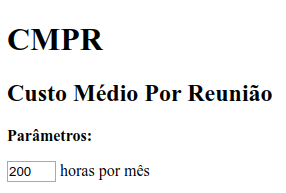
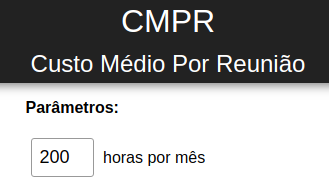
docs: ✏ Fix issue #7 make prints with new CSS
Make prints to README with new Styles

diff --git a/README.md b/README.md
@@ -6,23 +6,23 @@ Custo Médio Por Reunião
 
 ### Parâmetros
 
-> ![Screenshot: Parameters](https://github.com/dotenorio/cmpr/blob/master/screenshots/parameters.png)
+> ![Screenshot: Parameters](./screenshots/parameters.png)
 
 ### Iniciar com salário
 
-> ![Screenshot: Start Salary](https://github.com/dotenorio/cmpr/blob/master/screenshots/start-salary.png)
+> ![Screenshot: Start Salary](./screenshots/start-salary.png)
 
 ### Iniciar com média salarial
 
-> ![Screenshot: Start Average](https://github.com/dotenorio/cmpr/blob/master/screenshots/start-average.png)
+> ![Screenshot: Start Average](./screenshots/start-average.png)
 
 ### Em reunião
 
-> ![Screenshot: In Meeting](https://github.com/dotenorio/cmpr/blob/master/screenshots/in-meeting.png)
+> ![Screenshot: In Meeting](./screenshots/in-meeting.png)
 
 ### Resumo
 
-> ![Screenshot: Resume](https://github.com/dotenorio/cmpr/blob/master/screenshots/resume.png)
+> ![Screenshot: Resume](./screenshots/resume.png)
 
 ## TODO
 
